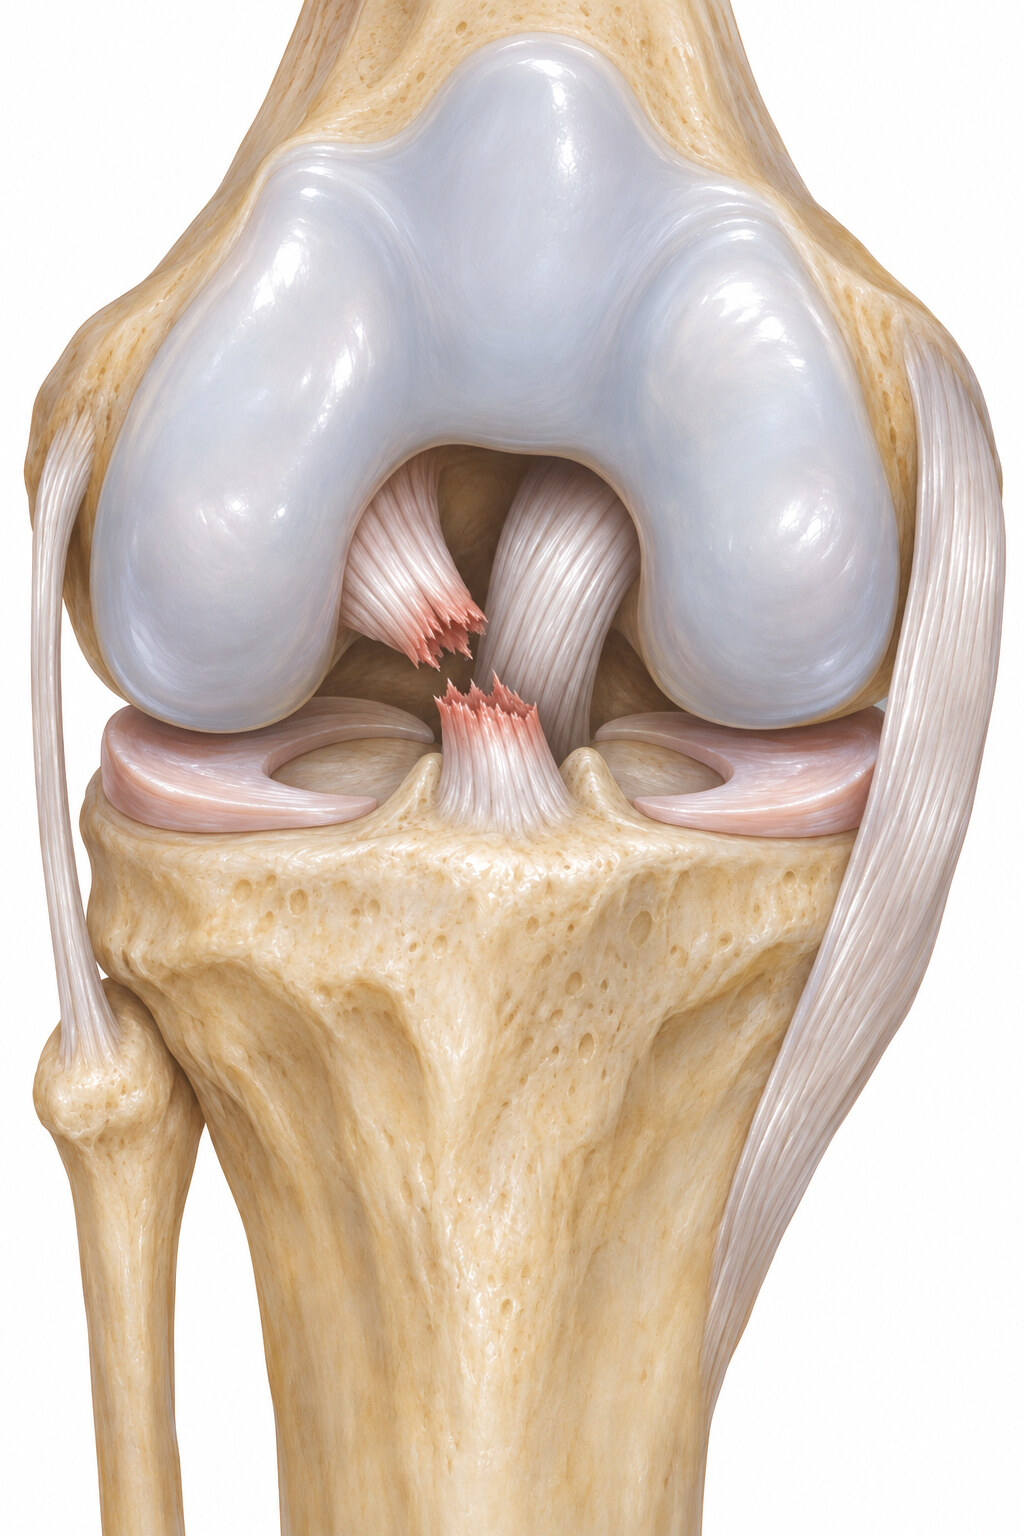
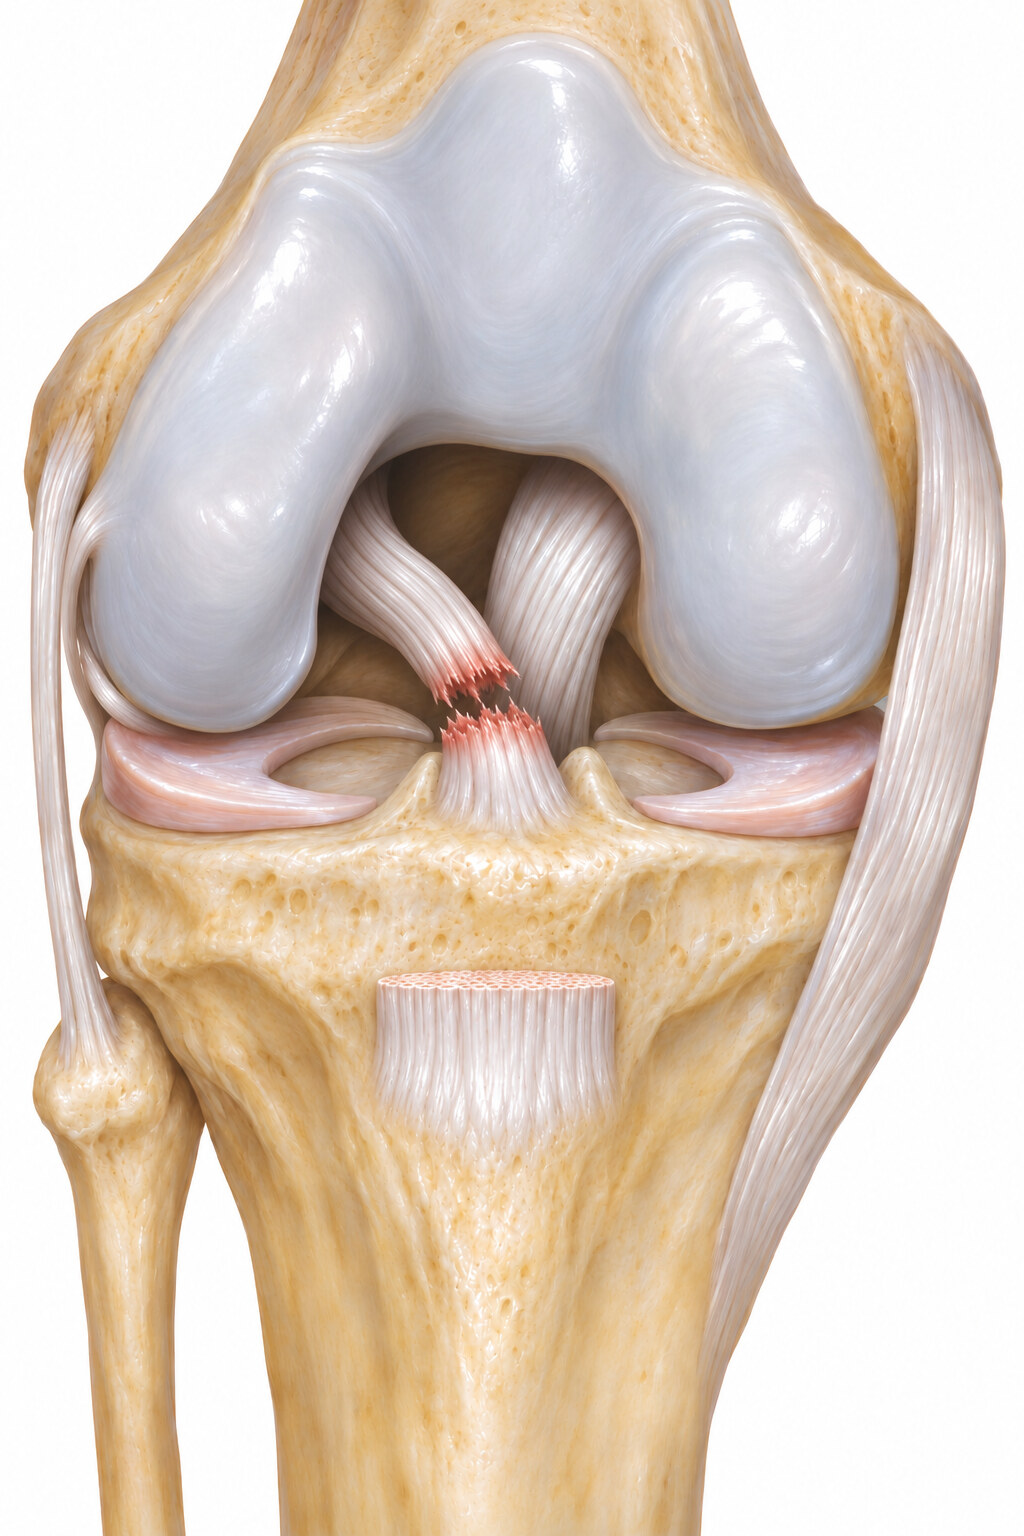
Update home page ACL tear illustration to revised version
Revised illustration adds the cut patellar tendon stump on the shin
bone. Alt text updated to match.

Claude-Session: https://claude.ai/code/session_01UbpsjJ8wzmdvaHbdDEYgcG

diff --git a/index.html b/index.html
@@ -44,7 +44,7 @@
       <div class="hero-visual">
         <img
           src="assets/img/acl-tear-hero.jpg"
-          alt="Anatomic illustration of a right knee seen from the front, bent, with the kneecap removed. The thigh bone (femur) is above, with two rounded ends covered in smooth cartilage. The shin bone (tibia) is below, with the thinner fibula on the outer side. In the gap between the two rounded ends of the thigh bone, the torn ACL is shown as two frayed stumps that no longer meet: one hangs from the outer side of the thigh bone and one rises from the top of the shin bone. The PCL sits intact behind them. A meniscus cushion rests on each side of the shin bone, and a side ligament runs down each side of the knee."
+          alt="Anatomic illustration of a right knee seen from the front, bent, with the kneecap removed. The thigh bone (femur) is above, with two rounded ends covered in smooth cartilage. The shin bone (tibia) is below, with the thinner fibula on the outer side. In the gap between the two rounded ends of the thigh bone, the torn ACL is shown as two frayed stumps that no longer meet: one hangs from the outer side of the thigh bone and one rises from the top of the shin bone. The PCL sits intact behind them. A meniscus cushion rests on each side of the shin bone, and a side ligament runs down each side of the knee. On the front of the shin bone, a short cut stump shows where the kneecap tendon attaches."
           width="1024"
           height="1536"
           loading="eager">
